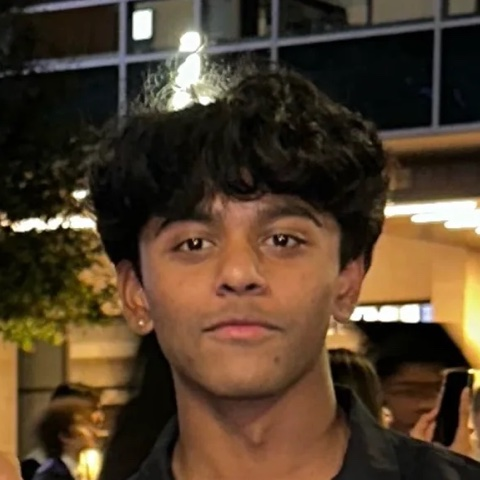
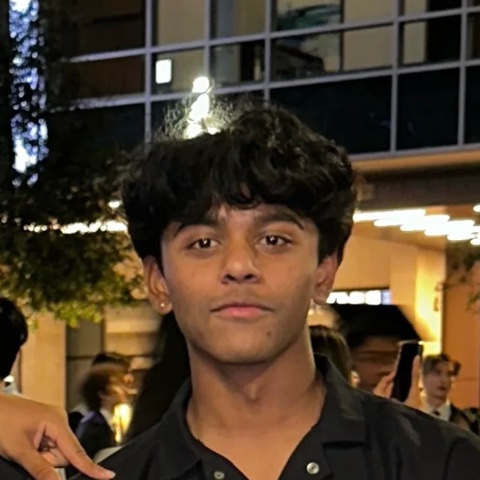
Update profile: bio, tagline, awards, wider photo
- Home tagline is now "Product Manager." (meta description to match)
- New bio covering MIS and Psychology at UT Austin and interests
- Remove minors from Profile
- Add Coca-Cola Scholars Program Regional Finalist to the trophy case
- Re-crop the profile photo wider so it's less zoomed in

diff --git a/content/site.ts b/content/site.ts
@@ -33,15 +33,15 @@ export const profile = {
   initials: 'SK',
   school: 'The University of Texas at Austin',
   classYear: '2028',
-  tagline: 'Product. Technology. Human behavior.',
-  bio: 'I study business and psychology, with a focus on product and technology.',
+  tagline: 'Product Manager.',
+  bio: "I study Management Information Systems and Psychology at the University of Texas at Austin. Outside of school, I'm usually chasing the next adventure, whether that's traveling somewhere new, training for a half marathon (my first one is coming up), playing tennis, or picking up a new language.",
   degrees: ['BBA, Management Information Systems', 'BA, Psychology'],
-  minors: ['Computer Science', 'Statistics & Data Science'],
   avatar: '/media/avatar.jpg',
   honors: [
     { title: 'Product@TX Product Design Competition', result: '1st Place', when: 'Spring 2026' },
     { title: 'Build Teams Demo Day', result: 'Best Overall', when: 'Fall 2025' },
     { title: 'Build Teams Demo Day', result: 'Best Tech', when: 'Spring 2025' },
+    { title: 'Coca-Cola Scholars Program', result: 'Regional Finalist', when: '' },
   ],
 };
 

diff --git a/app/profile/page.tsx b/app/profile/page.tsx
@@ -60,7 +60,7 @@ export default function Profile() {
             {profile.honors.map((h) => (
               <li key={h.title + h.when}>
                 <span className="trophy-badge"><TrophyIcon /></span>
-                <span><b>{h.result}</b><small>{h.title} · {h.when}</small></span>
+                <span><b>{h.result}</b><small>{h.title}{h.when && ` · ${h.when}`}</small></span>
               </li>
             ))}
           </ul>
@@ -70,7 +70,6 @@ export default function Profile() {
           <h2>Gear</h2>
           <ul className="gear-list">
             {profile.degrees.map((d) => <li key={d}><GearIcon /><span><b>{d}</b><small>Degree</small></span></li>)}
-            {profile.minors.map((m) => <li key={m}><GearIcon /><span><b>{m}</b><small>Minor</small></span></li>)}
           </ul>
         </Item>
 

diff --git a/app/layout.tsx b/app/layout.tsx
@@ -9,7 +9,7 @@ const display = Barlow_Condensed({ subsets: ['latin'], weight: ['500', '600', '7
 
 export const metadata: Metadata = {
   title: { default: 'Sriram Kakumanu', template: '%s · Sriram Kakumanu' },
-  description: 'Product, technology, and human behavior. Sriram Kakumanu, UT Austin, Class of 2028.',
+  description: 'Sriram Kakumanu, Product Manager. UT Austin, Class of 2028.',
   metadataBase: new URL(SITE_URL),
   openGraph: { type: 'website', siteName: 'Sriram Kakumanu' },
 };

diff --git a/public/media/README.md b/public/media/README.md
@@ -2,7 +2,7 @@
 
 `portrait.webp` is the complete owner-supplied photograph, converted to WebP with embedded metadata omitted.
 
-`avatar.jpg` is a 480px square crop of that photograph, centered on the owner's face with no other people in frame. It is shown as a round profile picture across the site.
+`avatar.jpg` is a 480px square crop of that photograph, centered on the owner's face and shoulders; the corners that show other people fall outside the round frame. It is shown as a round profile picture across the site.
 
 `photos/` holds the Activities photos listed in `content/photos.ts`. Each `<id>.jpg` is at most 1600px and each `<id>-thumb.jpg` at most 480px. Every image is re-encoded with no EXIF, GPS, camera or date metadata. `<id>.mp4` files are silent H.264 loops (Live Photo clips or short videos) with no location metadata. Map pins are placed by hand from the photo's GPS, date or the owner's description, and rounded to about 1 km. The originals are not kept in the repository.
 
